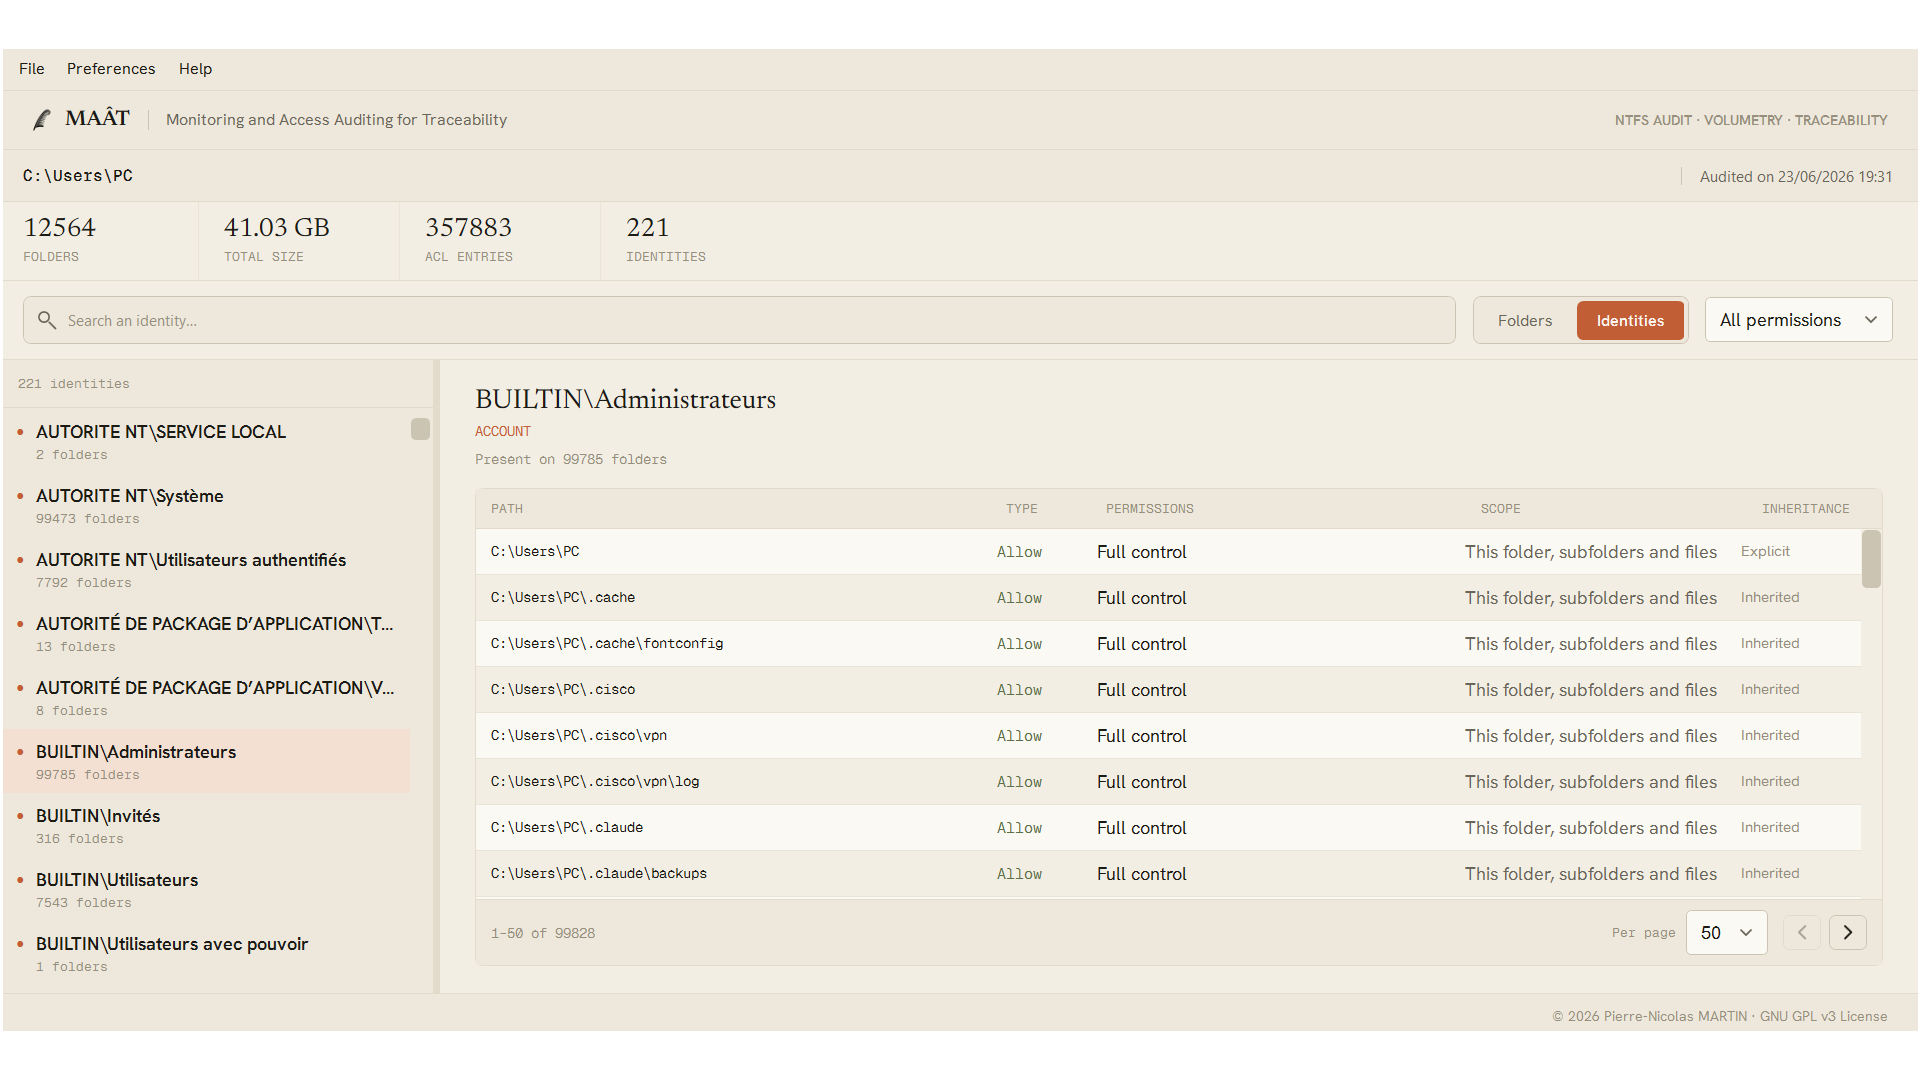
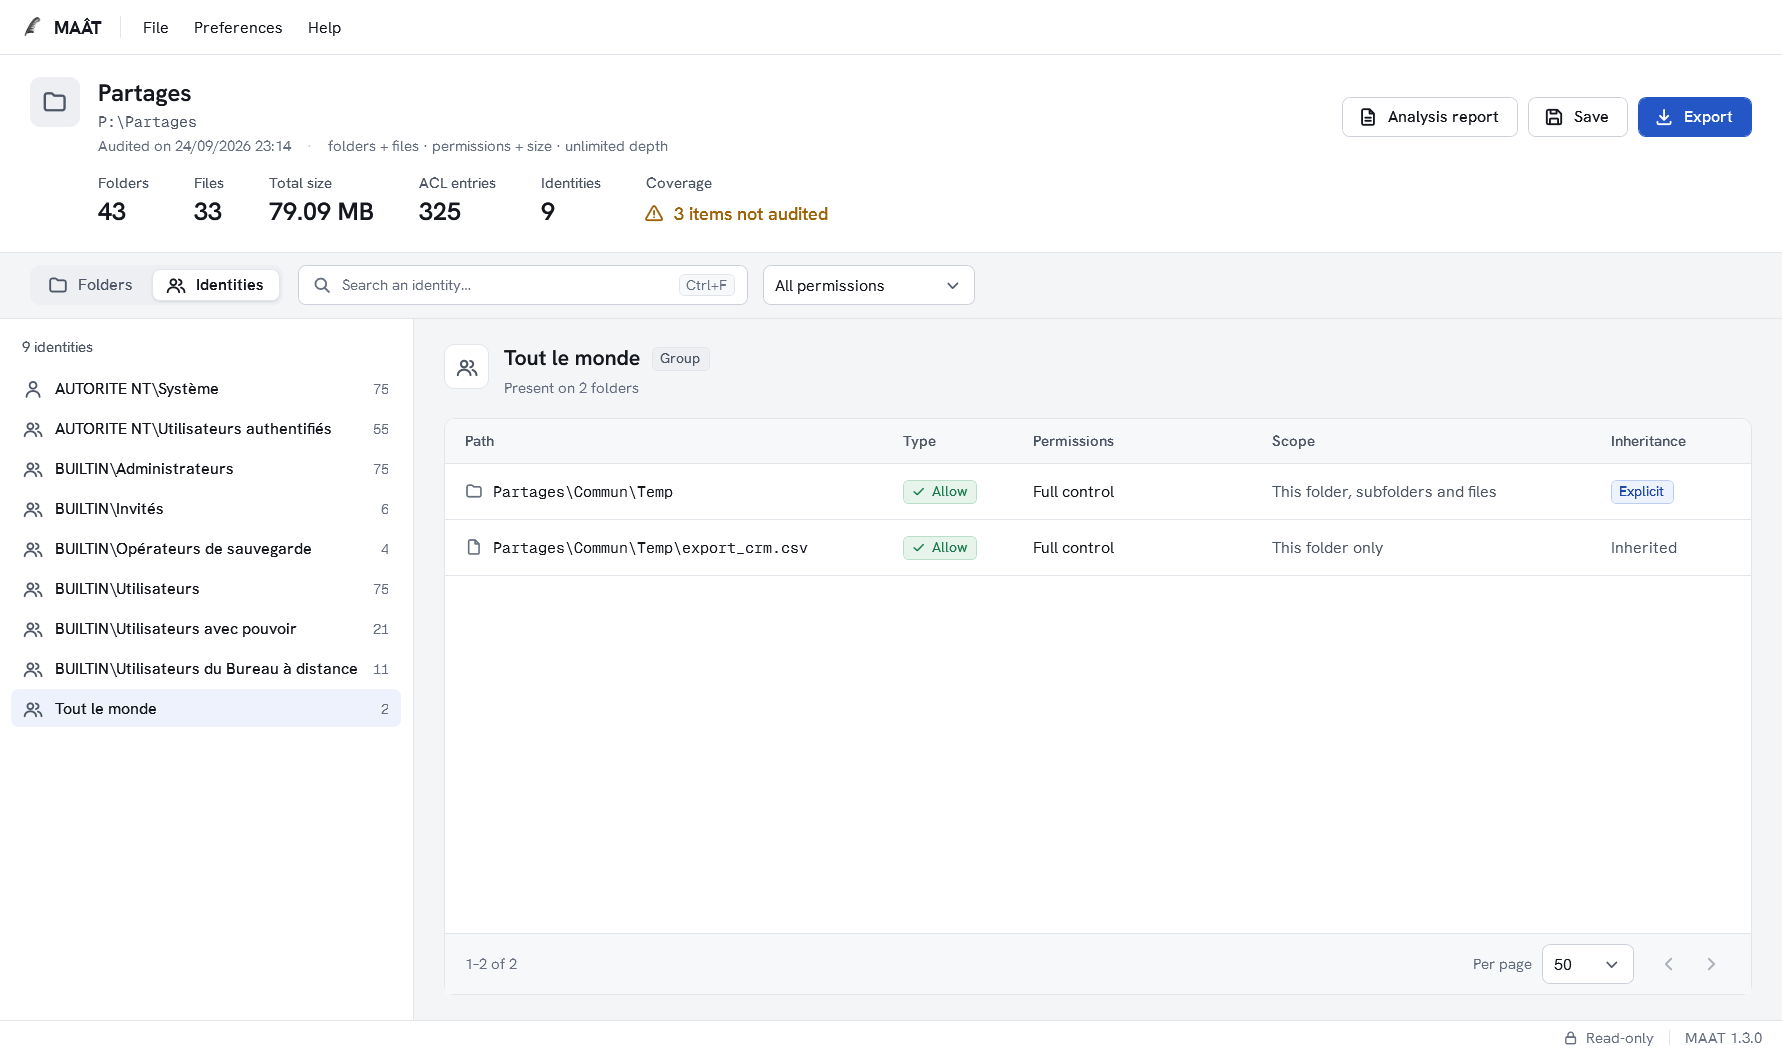
Version 1.3.0 : captures d'écran, README et finitions
- Version 1.3.0 (assemblies, MSI avec nouveau ProductCode, paquets).
- Captures du README refaites avec la nouvelle interface (FR / EN, sans
  donnée personnelle) ; légendes, fonctionnalités et journal des versions.
- Vue Identités : « Tout le monde » / « Utilisateurs authentifiés » reconnus
  comme groupes.
- Rapport HTML : ponctuation des métadonnées selon la langue (« : » / ": ").

diff --git a/src/MAAT.Export/Templates/report.html b/src/MAAT.Export/Templates/report.html
@@ -217,9 +217,9 @@ try{var _t=localStorage.getItem('maat-theme');if(!_t){_t=(window.matchMedia&&win
 <div class="rp">@@ROOT_ESCAPED@@</div>
 <div class="m">
 <span>@@AUDIT_DATE@@</span>
-<span>@@T_DEPTH@@ : @@DEPTH_LABEL@@</span>
-<span>@@T_MODE@@ : @@MODE_LABEL@@</span>
-<span>@@T_CONTENT@@ : @@CONTENT_LABEL@@</span>
+<span>@@T_DEPTH@@@@COLON@@@@DEPTH_LABEL@@</span>
+<span>@@T_MODE@@@@COLON@@@@MODE_LABEL@@</span>
+<span>@@T_CONTENT@@@@COLON@@@@CONTENT_LABEL@@</span>
 <span>@@ELEMENT_COUNT@@ @@T_ELEMENTS@@</span>
 </div>
 </div>

diff --git a/src/MAAT.App/ViewModels/IdentityListItemViewModel.cs b/src/MAAT.App/ViewModels/IdentityListItemViewModel.cs
@@ -51,7 +51,13 @@ public sealed class IdentityListItemViewModel
     /// </summary>
     public bool IsGroupLike => IsGroup
         || Identity.StartsWith(@"BUILTIN\", StringComparison.OrdinalIgnoreCase)
-        || Identity is "Tout le monde" or "Everyone";
+        || WellKnownGroups.Contains(Identity[(Identity.LastIndexOf('\\') + 1)..]);
+
+    /// <summary>Groupes bien connus (noms localisés FR / EN de Windows).</summary>
+    private static readonly HashSet<string> WellKnownGroups = new(StringComparer.OrdinalIgnoreCase)
+    {
+        "Tout le monde", "Everyone", "Utilisateurs authentifiés", "Authenticated Users",
+    };
 
     public string TypeText => IsGroupLike ? LocalizationManager.T("Scan_TypeGroup") : string.Empty;
     public bool HasTypeText => IsGroupLike;

diff --git a/src/MAAT.Storage/SqliteAuditSink.cs b/src/MAAT.Storage/SqliteAuditSink.cs
@@ -120,7 +120,7 @@ public sealed class SqliteAuditSink : IAuditSink, IDisposable
         cmd.Parameters.AddWithValue("$taille", p.AuditSize ? 1 : 0);
         cmd.Parameters.AddWithValue("$started", DateTimeOffset.UtcNow.ToString("O"));
         cmd.Parameters.AddWithValue("$version",
-            Assembly.GetExecutingAssembly().GetName().Version?.ToString(3) ?? "1.2.0");
+            Assembly.GetExecutingAssembly().GetName().Version?.ToString(3) ?? "1.3.0");
         cmd.Parameters.AddWithValue("$machine", Environment.MachineName);
         cmd.Parameters.AddWithValue("$user", Environment.UserName);
         return (long)cmd.ExecuteScalar()!;

diff --git a/src/MAAT.Export/HtmlReportExporter.cs b/src/MAAT.Export/HtmlReportExporter.cs
@@ -258,6 +258,7 @@ public sealed class HtmlReportExporter
             .Replace("@@T_BRAND@@", He("H_Brand"))
             .Replace("@@T_SUBTITLE@@", He("H_Subtitle"))
             .Replace("@@T_THEME_TOGGLE@@", He("H_ThemeToggle"))
+            .Replace("@@COLON@@", _lang == "en" ? ": " : " : ") // « Profondeur : … » en français, « Depth: … » en anglais
             .Replace("@@T_DEPTH@@", He("H_Depth"))
             .Replace("@@T_MODE@@", He("H_Mode"))
             .Replace("@@T_CONTENT@@", He("H_Content"))

diff --git a/src/MAAT.App/Views/AboutWindow.xaml.cs b/src/MAAT.App/Views/AboutWindow.xaml.cs
@@ -22,7 +22,7 @@ public partial class AboutWindow : Window
         InitializeComponent();
 
         var asm = Assembly.GetExecutingAssembly();
-        string version = asm.GetName().Version?.ToString(3) ?? "1.2.0";
+        string version = asm.GetName().Version?.ToString(3) ?? "1.3.0";
         VersionBadge.Content = Localization.LocalizationManager.T("About_Version", version);
 
         // Copyright (« © <année> <auteur> ») fourni par l'attribut d'assembly,

diff --git a/README.fr.md b/README.fr.md
@@ -8,17 +8,17 @@ arborescence, lit les **droits NTFS (ACL)** de chaque élément, calcule les **t
 et résout les **groupes Active Directory** (appartenances imbriquées), puis restitue
 le tout dans une interface interactive et des rapports exportables.
 
-> Statut : version 1.2.0 — fonctionnellement complète.
+> Statut : version 1.3.0 — fonctionnellement complète.
 > Licence : **GNU GPL v3**.
 
 ---
 
 ## Aperçu
 
-| <img src="docs/screenshots/fr_main_window.png" width="430"><br>**Fenêtre principale** (thèmes clair et sombre) | <img src="docs/screenshots/fr_audit_config.png" width="430"><br>**Configuration** d'un nouvel audit |
+| <img src="docs/screenshots/fr_main_window.png" width="430"><br>**Écran d'accueil** (thèmes clair et sombre), projets récents | <img src="docs/screenshots/fr_audit_config.png" width="430"><br>**Configuration** d'un nouvel audit |
 |:--:|:--:|
-| <img src="docs/screenshots/fr_audit_in_progress.png" width="430"><br>**Progression** en temps réel, avec estimation du temps restant | <img src="docs/screenshots/fr_audit_results_folders.png" width="430"><br>**Résultats — vue Dossiers** : arbre + détail des droits |
-| <img src="docs/screenshots/fr_audit_results_identities.png" width="430"><br>**Résultats — vue Identités** : emplacements et membres | <img src="docs/screenshots/fr_audit_summary.png" width="430"><br>**Rapport d'analyse** de l'audit |
+| <img src="docs/screenshots/fr_audit_in_progress.png" width="430"><br>**Progression** en temps réel, avec estimation du temps restant | <img src="docs/screenshots/fr_audit_results_folders.png" width="430"><br>**Résultats — vue Dossiers** : chiffres clés, couverture, arbre + droits |
+| <img src="docs/screenshots/fr_audit_results_identities.png" width="430"><br>**Résultats — vue Identités** : emplacements et membres | <img src="docs/screenshots/fr_audit_summary.png" width="430"><br>**Rapport d'analyse** : périmètre couvert, points d'attention, éléments non audités |
 | <img src="docs/screenshots/fr_html_export.png" width="430"><br>**Rapport HTML interactif** (autonome) | <img src="docs/screenshots/fr_user_guide.png" width="430"><br>**Guide d'utilisation** intégré |
 
 ### Icônes
@@ -62,8 +62,9 @@ d2e202cbbf46aa08b73652cdba57a713432dbc4c3bbc831fae08bcc7778f477b  MAAT-1.2.0-por
 - **Résolution Active Directory** (optionnelle) : développement récursif des groupes
   avec détection de cycles ; annotation « (via *groupe*) » de l'appartenance indirecte.
   Dégradation propre hors domaine, sans dépendance au module RSAT.
-- **Interface moderne** (WPF, MVVM) : arbre virtualisé, recherche, filtres par type
-  de droit et par identité, thèmes clair / sombre, deux langues (FR / EN).
+- **Interface professionnelle** (WPF, MVVM) : système de design cohérent, arbre
+  virtualisé, recherche, filtres par type de droit et par identité, thèmes clair /
+  sombre accordés à Windows, raccourcis clavier, deux langues (FR / EN).
 - **Exports** : CSV et **rapport HTML interactif autonome** (un seul fichier, ouvrable
   dans n'importe quel navigateur, sans dépendance externe).
 - **Moteur en streaming** : énumération native, lecture ACL parallèle par lots,
@@ -109,7 +110,7 @@ Installeur MSI (nécessite [WiX Toolset v5](https://wixtoolset.org/)) :
 
 ```sh
 cd installer
-wix build Package.wxs -ext WixToolset.UI.wixext -o MAAT-1.2.0-x64.msi
+wix build Package.wxs -ext WixToolset.UI.wixext -o MAAT-1.3.0-x64.msi
 ```
 
 Package portable (sans installation, préférences stockées à côté de l'exécutable) :
@@ -144,6 +145,22 @@ SQLite ; l'interface lit la base en pagination pour un arbre virtualisé, et les
 consomment la base en streaming, sans jamais matérialiser l'ensemble en mémoire.
 
 ## Journal des versions
+
+### 1.3.0
+- **Interface repensée** : nouveau système de design — palette neutre avec un seul
+  accent, une seule police pour toute l'interface, icônes vectorielles, composants
+  cohérents, contrastes WCAG AA ; thèmes clair et sombre, barre de titre Windows
+  accordée au thème.
+- **Écran d'accueil** : ce que MAAT analyse, engagement de lecture seule, projets récents.
+- **Explorateur de résultats** : en-tête d'audit avec chiffres clés et indicateur de
+  **couverture** (audit complet / éléments non audités), boutons Enregistrer et Exporter,
+  table des droits plus lisible (pastilles Autoriser / Refuser, droits explicites mis en
+  évidence), chemins relatifs à la racine auditée, recherche plus précise.
+- **Rapport d'analyse** : périmètre couvert, points d'attention, éléments non audités —
+  rouvrable à tout moment, y compris pour un projet enregistré.
+- **Raccourcis clavier** : Ctrl+N, Ctrl+O, Ctrl+S, Ctrl+F, F1.
+- **Rapport HTML** aligné sur la nouvelle charte (clair / sombre).
+- Police serif retirée : un paquet plus léger.
 
 ### 1.2.0
 - **Audits plus fiables** : espaces de noms DFS suivis de façon transparente jusqu'à

diff --git a/README.md b/README.md
@@ -8,17 +8,17 @@ the **NTFS permissions (ACLs)** of every item, computes **sizes** and resolves
 **Active Directory groups** (nested memberships), then presents everything in an
 interactive interface and exportable reports.
 
-> Status: version 1.2.0 — feature-complete.
+> Status: version 1.3.0 — feature-complete.
 > License: **GNU GPL v3**.
 
 ---
 
 ## Overview
 
-| <img src="docs/screenshots/en_main_window.png" width="430"><br>**Main window** (light & dark themes) | <img src="docs/screenshots/en_audit_config.png" width="430"><br>**New audit** configuration |
+| <img src="docs/screenshots/en_main_window.png" width="430"><br>**Start screen** (light & dark themes), recent projects | <img src="docs/screenshots/en_audit_config.png" width="430"><br>**New audit** configuration |
 |:--:|:--:|
-| <img src="docs/screenshots/en_audit_in_progress.png" width="430"><br>**Real-time progress**, with estimated time remaining | <img src="docs/screenshots/en_audit_results_folders.png" width="430"><br>**Results — Folders view**: tree + permissions detail |
-| <img src="docs/screenshots/en_audit_results_identities.png" width="430"><br>**Results — Identities view**: locations & members | <img src="docs/screenshots/en_audit_summary.png" width="430"><br>**Audit analysis report** |
+| <img src="docs/screenshots/en_audit_in_progress.png" width="430"><br>**Real-time progress**, with estimated time remaining | <img src="docs/screenshots/en_audit_results_folders.png" width="430"><br>**Results — Folders view**: key figures, coverage, tree + permissions |
+| <img src="docs/screenshots/en_audit_results_identities.png" width="430"><br>**Results — Identities view**: locations & members | <img src="docs/screenshots/en_audit_summary.png" width="430"><br>**Analysis report**: scope covered, points of attention, items not audited |
 | <img src="docs/screenshots/en_html_export.png" width="430"><br>**Interactive HTML report** (standalone) | <img src="docs/screenshots/en_user_guide.png" width="430"><br>**Built-in user guide** |
 
 ### Icons
@@ -62,8 +62,9 @@ d2e202cbbf46aa08b73652cdba57a713432dbc4c3bbc831fae08bcc7778f477b  MAAT-1.2.0-por
 - **Active Directory resolution** (optional): recursive group expansion with cycle
   detection; "(via *group*)" annotation of indirect membership. Graceful degradation
   off-domain, with no dependency on the RSAT module.
-- **Modern interface** (WPF, MVVM): virtualized tree, search, filters by permission
-  type and by identity, light / dark themes, two languages (EN / FR).
+- **Professional interface** (WPF, MVVM): consistent design system, virtualized tree,
+  search, filters by permission type and by identity, light / dark themes following
+  Windows, keyboard shortcuts, two languages (EN / FR).
 - **Exports**: CSV and a **standalone interactive HTML report** (a single file,
   openable in any browser, with no external dependency).
 - **Streaming engine**: native enumeration, parallel batched ACL reading, bounded
@@ -106,7 +107,7 @@ MSI installer (requires [WiX Toolset v5](https://wixtoolset.org/)):
 
 ```sh
 cd installer
-wix build Package.wxs -ext WixToolset.UI.wixext -o MAAT-1.2.0-x64.msi
+wix build Package.wxs -ext WixToolset.UI.wixext -o MAAT-1.3.0-x64.msi
 ```
 
 Portable package (no installation, settings stored next to the executable):
@@ -141,6 +142,21 @@ the UI reads the database with pagination for a virtualized tree, and the export
 consume the database in streaming, without ever materializing the whole set in memory.
 
 ## Changelog
+
+### 1.3.0
+- **Redesigned interface**: a new design system — cool neutral palette with a single
+  accent, one typeface for the whole interface, vector icons, consistent components,
+  WCAG AA contrast; light and dark themes, with a Windows title bar that follows the theme.
+- **Start screen**: what MAAT analyses, read-only commitment, recent projects.
+- **Results explorer**: audit header with key figures and a **coverage** indicator
+  (complete audit / items not audited), Save and Export buttons, clearer permissions
+  table (Allow / Deny badges, explicit rights highlighted), paths relative to the audited
+  root, more precise search.
+- **Analysis report**: scope covered, points of attention, items not audited — can be
+  reopened at any time, including for a saved project.
+- **Keyboard shortcuts**: Ctrl+N, Ctrl+O, Ctrl+S, Ctrl+F, F1.
+- **HTML report** aligned with the new design (light / dark).
+- Serif font removed: a lighter package.
 
 ### 1.2.0
 - **More reliable audits**: DFS namespaces followed transparently to their targets;
